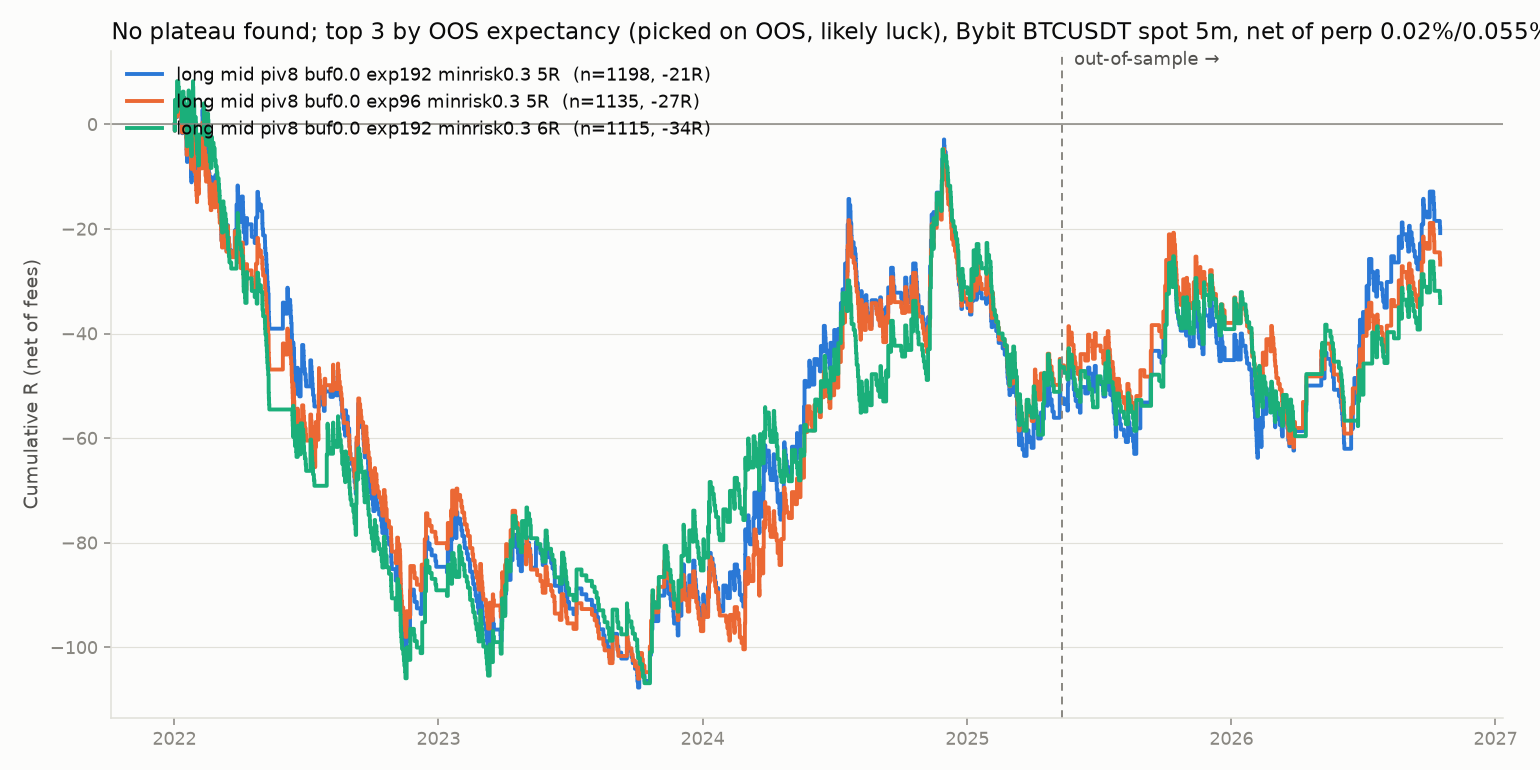
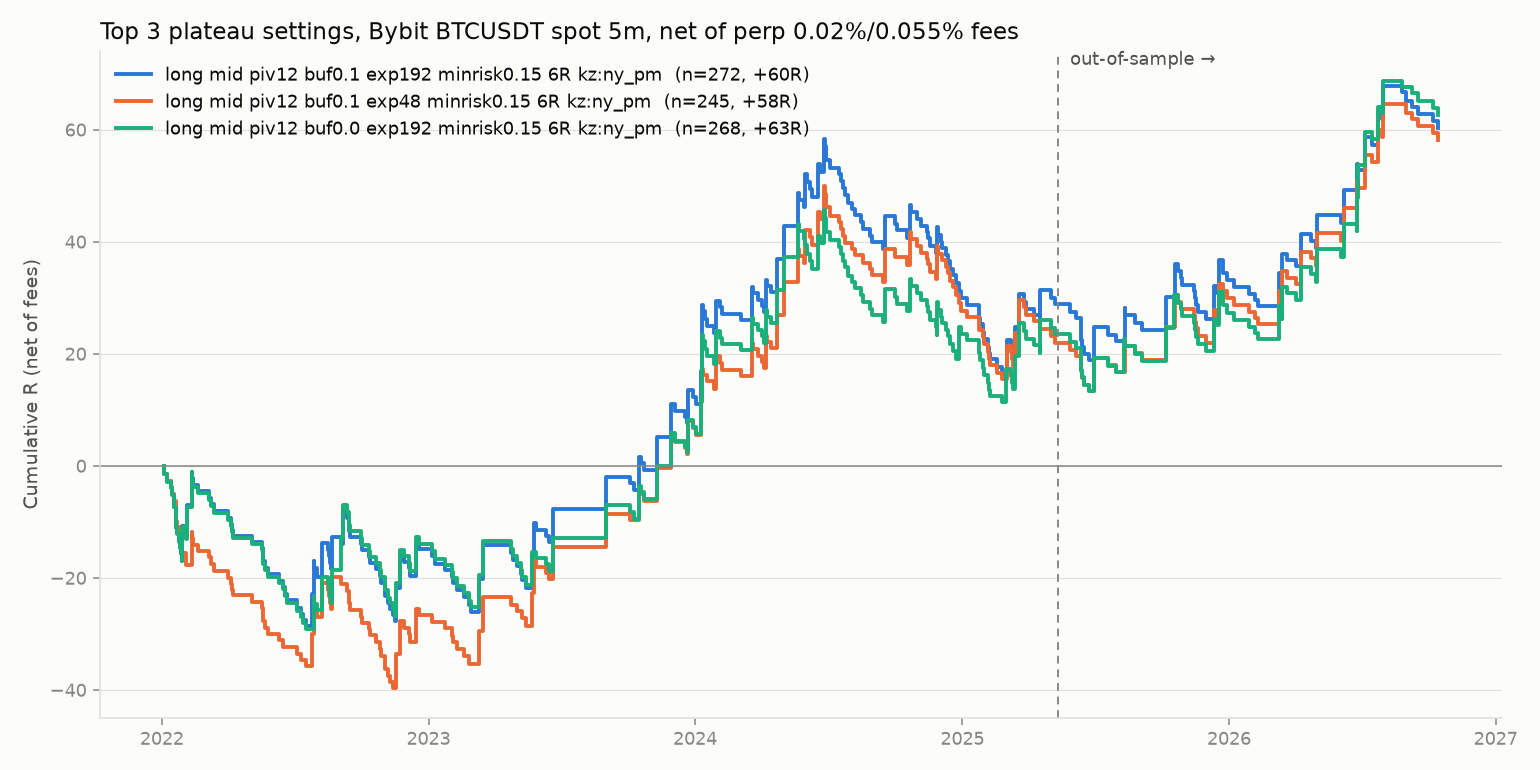
Add ICT killzone entry filter as a grid dimension
Killzones in New York local time (DST-aware) on the entry candle's open:
Asia 20-24, London 02-05, NY AM 07-10, London close 10-12, NY PM 13:30-16.
Grid option killzone: any / asia / london / ny_am / ny_pm / london_ny / all.
Entries outside the chosen zone are skipped before the one-position rule.
Requested by Pav; judged out-of-sample only. Pav's 15 Oct reference entry
(16:35 New York) is outside every killzone (test pins this).

diff --git a/hs_backtest.py b/hs_backtest.py
@@ -62,6 +62,25 @@ GRID: Dict[str, Tuple] = {
     "min_risk_pct": (0.0, 0.15, 0.3),
     "direction": ("both", "short", "long"),
     "target_r": TARGETS_R,
+    "killzone": ("any", "asia", "london", "ny_am", "ny_pm", "london_ny", "all"),
+}
+
+# ICT killzones in New York local time (DST-aware), [start, end). Applied to the entry candle's open time.
+KILLZONES: Dict[str, Tuple[str, str]] = {
+    "asia": ("20:00", "24:00"),
+    "london": ("02:00", "05:00"),
+    "ny_am": ("07:00", "10:00"),
+    "london_close": ("10:00", "12:00"),
+    "ny_pm": ("13:30", "16:00"),
+}
+KILLZONE_SETS: Dict[str, Optional[frozenset]] = {
+    "any": None,
+    "asia": frozenset({"asia"}),
+    "london": frozenset({"london"}),
+    "ny_am": frozenset({"ny_am"}),
+    "ny_pm": frozenset({"ny_pm"}),
+    "london_ny": frozenset({"london", "ny_am"}),
+    "all": frozenset(KILLZONES),
 }
 
 
@@ -443,7 +462,21 @@ def simulate(
     if len(trades):
         trades["entry_time"] = df["datetime"].to_numpy()[trades["entry_idx"].to_numpy()]
         trades["exit_time"] = df["datetime"].to_numpy()[trades["exit_idx"].to_numpy()]
+        trades["killzone"] = killzone_of(pd.DatetimeIndex(trades["entry_time"]))
     return trades
+
+
+def killzone_of(times: pd.DatetimeIndex) -> np.ndarray:
+    """Killzone name for each UTC timestamp (New York local time), or "" outside all killzones."""
+    ny = times.tz_localize("UTC") if times.tz is None else times
+    ny = ny.tz_convert("America/New_York")
+    minute = ny.hour * 60 + ny.minute
+    out = np.full(len(times), "", dtype=object)
+    for name, (a, b) in KILLZONES.items():
+        lo = int(a[:2]) * 60 + int(a[3:])
+        hi = int(b[:2]) * 60 + int(b[3:])
+        out[(minute >= lo) & (minute < hi)] = name
+    return out
 
 
 # --------------------------------------------------------------------------- evaluation
@@ -483,6 +516,9 @@ def select_trades(trades: pd.DataFrame, cfg: Dict) -> pd.DataFrame:
           & (t.bars_to_entry <= cfg["expiry"]) & (t.risk_pct >= cfg["min_risk_pct"])]
     if cfg["direction"] != "both":
         t = t[t.direction == cfg["direction"]]
+    zones = KILLZONE_SETS[cfg.get("killzone", "any")]
+    if zones is not None:
+        t = t[t.killzone.isin(zones)]
     t = t.sort_values(["entry_idx", "msb_idx"])
     return t[_non_overlapping(t.entry_idx.to_numpy(), t.exit_idx.to_numpy())]
 
@@ -516,14 +552,14 @@ def report(results: pd.DataFrame, min_trades: int, top: int = 15) -> str:
     if ok.empty:
         return f"No config reached {min_trades} in-sample trades."
     best = ok.sort_values("is_total_r", ascending=False).head(top)
-    cols = ["pivot_len", "entry", "stop_buffer_atr", "expiry", "min_risk_pct", "direction", "target_r",
+    cols = ["pivot_len", "entry", "stop_buffer_atr", "expiry", "min_risk_pct", "direction", "target_r", "killzone",
             "is_trades", "is_win_rate", "is_exp_r", "is_total_r", "is_max_dd_r",
             "oos_trades", "oos_win_rate", "oos_exp_r", "oos_total_r", "oos_max_dd_r"]
     lines.append(f"Top {top} configs by in-sample total R (net of fees, >= {min_trades} IS trades):")
     lines.append(best[cols].to_string(index=False, float_format=lambda x: f"{x:.2f}"))
     lines.append("")
     lines.append("Parameter sensitivity — median full-sample expectancy (R/trade, net) across all other settings:")
-    for p in ("target_r", "entry", "stop_buffer_atr", "pivot_len", "expiry", "min_risk_pct", "direction"):
+    for p in ("target_r", "entry", "stop_buffer_atr", "pivot_len", "expiry", "min_risk_pct", "direction", "killzone"):
         m = results.groupby(p)[["all_exp_r", "all_trades"]].median()
         lines.append(f"  {p}: " + ", ".join(f"{k}={v.all_exp_r:+.3f} (n~{v.all_trades:.0f})" for k, v in m.iterrows()))
     return "\n".join(lines)

diff --git a/test_hs_backtest.py b/test_hs_backtest.py
@@ -11,8 +11,8 @@ import numpy as np
 import pandas as pd
 
 import hs_backtest
-from hs_backtest import (Fees, GRID, atr_wilder, detect_setups, download_bybit, evaluate, find_entry, load_csv,
-                         pivot_block, pivot_highs, resolve_exits, simulate, synthetic_ohlcv, trades_path)
+from hs_backtest import (Fees, GRID, atr_wilder, detect_setups, download_bybit, evaluate, find_entry, killzone_of,
+                         load_csv, pivot_block, pivot_highs, resolve_exits, simulate, synthetic_ohlcv, trades_path)
 
 REFERENCE_CSV = Path(__file__).resolve().parent / "testdata" / "bybit_btcusdt_5m_2026-10-15.csv"
 
@@ -126,7 +126,7 @@ class TestShort(unittest.TestCase):
     def test_expiry_filters(self) -> None:
         t = _run(BEAR_HS + _falling(101, 15))
         grid = dict(GRID, pivot_len=(2,), stop_buffer_atr=(0.0,), target_r=(3.0,), expiry=(1, 3),
-                    min_risk_pct=(0.0,), direction=("short",))
+                    min_risk_pct=(0.0,), direction=("short",), killzone=("any",))
         res = evaluate(t, split_idx=10_000, grid=grid).set_index(["entry", "expiry"])
         self.assertEqual(res.loc[("mid", 1)].is_trades, 0)  # mid fill is 2 bars after the MSB
         self.assertEqual(res.loc[("mid", 3)].is_trades, 1)
@@ -173,6 +173,26 @@ class TestOutputs(unittest.TestCase):
                 got = load_csv(path)
                 self.assertEqual(list(got.datetime), list(df.datetime))
                 self.assertEqual(list(got.close), list(df.close))
+
+
+class TestKillzones(unittest.TestCase):
+    def test_labels_follow_new_york_time_with_dst(self) -> None:
+        t = pd.DatetimeIndex(["2024-01-15 07:00", "2024-07-15 06:00", "2024-07-15 05:55", "2024-07-15 17:35",
+                              "2024-07-15 20:00", "2024-01-16 01:00", "2024-07-15 14:05"], tz="UTC")
+        # EST 02:00 london | EDT 02:00 london | EDT 01:55 none | EDT 13:35 ny_pm | EDT 16:00 none (end exclusive)
+        # | EST 20:00 asia | EDT 10:05 london_close
+        self.assertEqual(list(killzone_of(t)), ["london", "london", "", "ny_pm", "", "asia", "london_close"])
+
+    def test_filter_skips_entries_outside_the_zone(self) -> None:
+        # BEAR_HS entries (2024-01-01 00:55 / 01:00 UTC = 19:55 / 20:00 EST): mid is outside Asia, close is inside.
+        t = _run(BEAR_HS + _falling(101, 15))
+        grid = dict(GRID, pivot_len=(2,), stop_buffer_atr=(0.0,), target_r=(3.0,), expiry=(192,),
+                    min_risk_pct=(0.0,), direction=("short",), killzone=("any", "asia", "london"))
+        res = evaluate(t, split_idx=10_000, grid=grid).set_index(["entry", "killzone"])
+        self.assertEqual(res.loc[("mid", "any")].is_trades, 1)
+        self.assertEqual(res.loc[("mid", "asia")].is_trades, 0)
+        self.assertEqual(res.loc[("close", "asia")].is_trades, 1)
+        self.assertEqual(res.loc[("close", "london")].is_trades, 0)
 
 
 class TestReferenceTrade(unittest.TestCase):
@@ -224,6 +244,11 @@ class TestReferenceTrade(unittest.TestCase):
         t = t[(t.direction == "short") & (t.head_idx == self.at("03:05"))].set_index("entry")
         self.assertEqual(set(t.reason), {"target"})
         self.assertAlmostEqual(t.loc["close"].r_gross, 4.0)
+
+    def test_reference_entry_is_outside_every_killzone(self) -> None:
+        # 06:35 AEST = 16:35 New York (EDT): after the NY PM killzone closes.
+        e_time = self.df.datetime.iloc[self.at("06:35")]
+        self.assertEqual(killzone_of(pd.DatetimeIndex([e_time]))[0], "")
 
     def test_no_lookahead(self) -> None:
         full = self.setup_for_head(3)

diff --git a/hs_report.py b/hs_report.py
@@ -28,7 +28,7 @@ import pandas as pd
 from hs_backtest import DATA_DIR, GRID, cache_path, load_csv, select_trades, stats
 
 ORDINAL = ("pivot_len", "stop_buffer_atr", "expiry", "min_risk_pct", "target_r")
-CATEGORICAL = ("entry", "direction")
+CATEGORICAL = ("entry", "direction", "killzone")
 KEYS = list(GRID)
 
 # Reference palette (dataviz skill): categorical slots 1-3, diverging blue<->red, light surface.
@@ -75,7 +75,7 @@ def config_trades(trades: pd.DataFrame, cfg: Dict) -> pd.DataFrame:
 
 def fmt_cfg(cfg: Dict) -> str:
     return (f"{cfg['direction']} {cfg['entry']} piv{cfg['pivot_len']} buf{cfg['stop_buffer_atr']} "
-            f"exp{cfg['expiry']} minrisk{cfg['min_risk_pct']} {cfg['target_r']:.0f}R")
+            f"exp{cfg['expiry']} minrisk{cfg['min_risk_pct']} {cfg['target_r']:.0f}R kz:{cfg['killzone']}")
 
 
 def marginal(ok: pd.DataFrame, by: str) -> pd.DataFrame:
@@ -220,7 +220,7 @@ def main(argv: Optional[List[str]] = None) -> int:
     print(robust[cols].head(args.top).to_string(index=False, float_format=ff) if len(robust) else "  none")
     print()
 
-    for by in ("target_r", "entry", "direction", "pivot_len", "stop_buffer_atr", "expiry", "min_risk_pct"):
+    for by in ("killzone", "target_r", "entry", "direction", "pivot_len", "stop_buffer_atr", "expiry", "min_risk_pct"):
         print(f"By {by} (configs with >= {args.min_trades} IS & OOS trades):")
         print(marginal(ok, by).to_string(float_format=ff))
         print()
